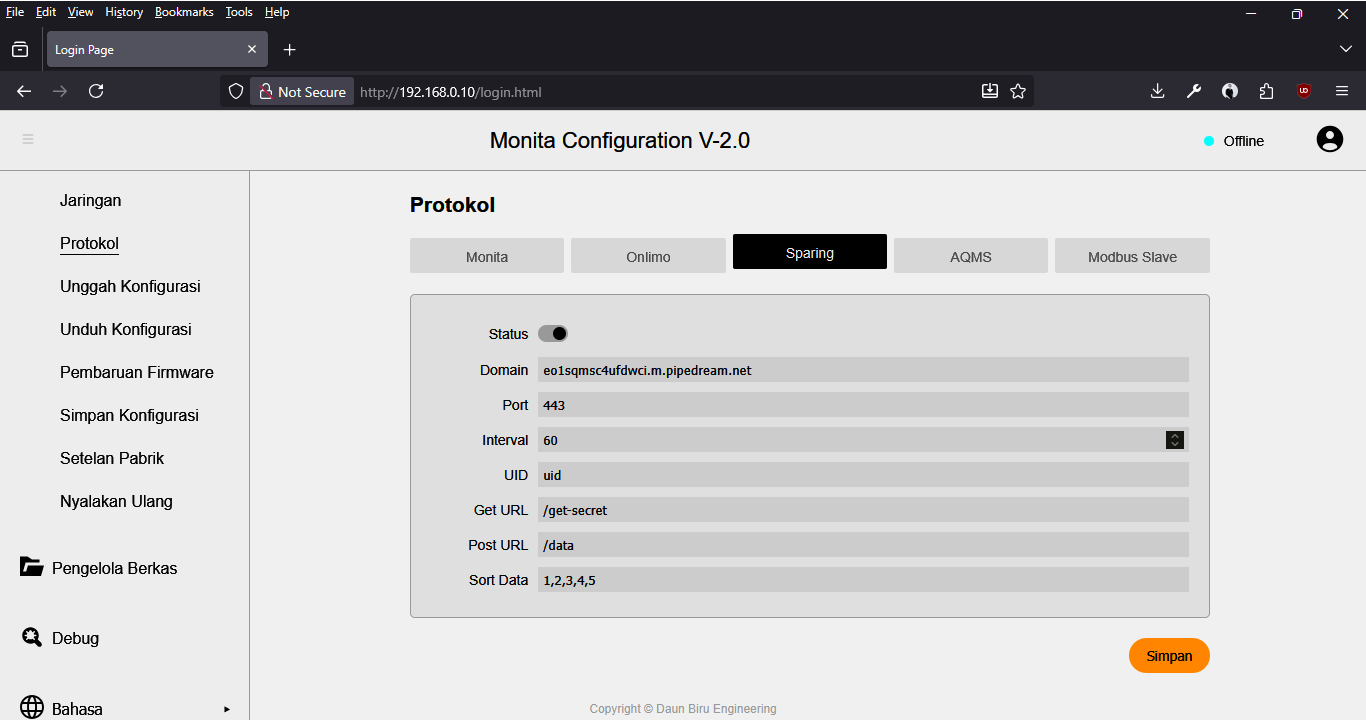
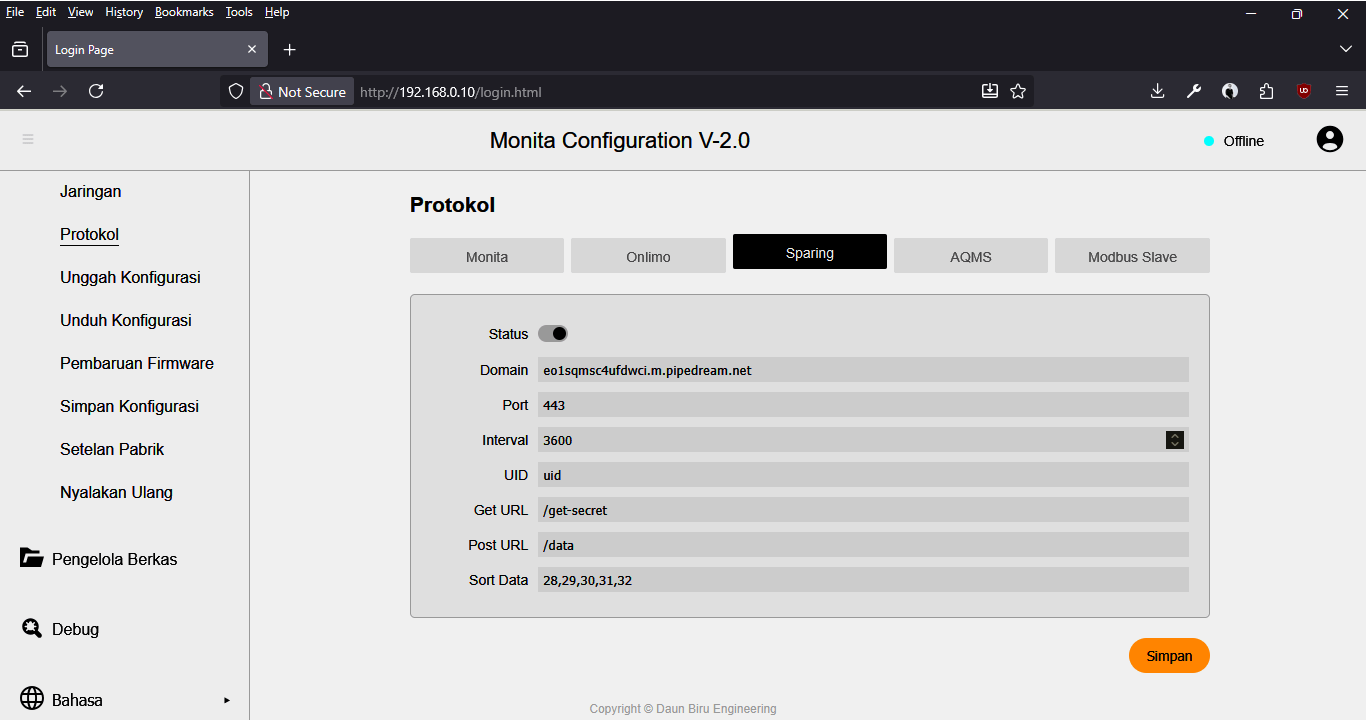
perbaruin info protokol sparing

diff --git a/docs/menu/pengaturan/protokol_wqms.md b/docs/menu/pengaturan/protokol_wqms.md
@@ -10,12 +10,27 @@ SPARING merupakan singkatan dari Sistem Pemantauan Kualitas Air Limbah Secara Te
 | :-------- | :---------------------------------------- | :---------------------------------------------- |
 | Status    | Tidak aktif/Aktif                         | _Toggle_ kiri tidak aktif; _toggle_ kanan aktif |
 | Domain*   | Alamat DNS atau IP Server SPARING         | Alamat server penerima data                     |
-| Port*     | HTTP Port                                 | 80 untuk *http*, 443 untuk *https*              |
-| Interval  | Jeda pengiriman data                      | Satuan detik                                    |
+| Port*     | HTTP Port                                 | 443 untuk *https* (_Default_), 80 untuk *http*  |
+| Interval* | Jeda pengiriman data                      | Satuan detik; _Default_ 3600 (1 Jam)            |
 | UID*      | UID SPARING                               | ID unik _logger_                                |
 | Get URL*  | _Endpoint_ protokol GET SPARING           | Untuk mengambil sandi; Misal: `/get-secret`     |
 | Post URL* | _Endpoint_ protokol POST SPARING          | Untuk mengirim data; Misal: `/data`             |
-| Sort Data | Urutan ID Tag yang akan dikirim ke server | Misal: 1,2,3,4,5                                |
+| Sort Data | Urutan ID Tag yang akan dikirim ke server | Misal: `28,29,30,31,32`                         |
 
-##### Keterangan
+##### Keterangan:
 *) Sesuai dokumen SPARING
+
+##### Catatan:
+
+- <span style="color:red">Pastikan `nama tag` sesuai dengan dokumen SPARING</span>. Hal ini penting karena `nama tag` akan dikirimkan ke `server`. Penamaan yang salah akan menyebabkan data tidak disimpan ke `server`. Sebagai contoh, berdasarkan dokumen SPARING sebelumnya, `nama tag` adalah:
+  - `pH`
+  - `cod`
+  - `tss`
+  - `nh3n`
+  - `debit`
+- Informasi `datetime` akan otomatis disertakan oleh sistem _device_.
+- Bidang isian `Sort Data`, nilai disesuaikan dengan urutan `tag`. Misal: `28,29,30,31,32`.
+
+Sebagai referensi, lihat juga gambar berikut sebagai contoh pengaturan `ID Tag`.
+
+![id_tag](../../assets/images/id_tag.png "ID Tag")
